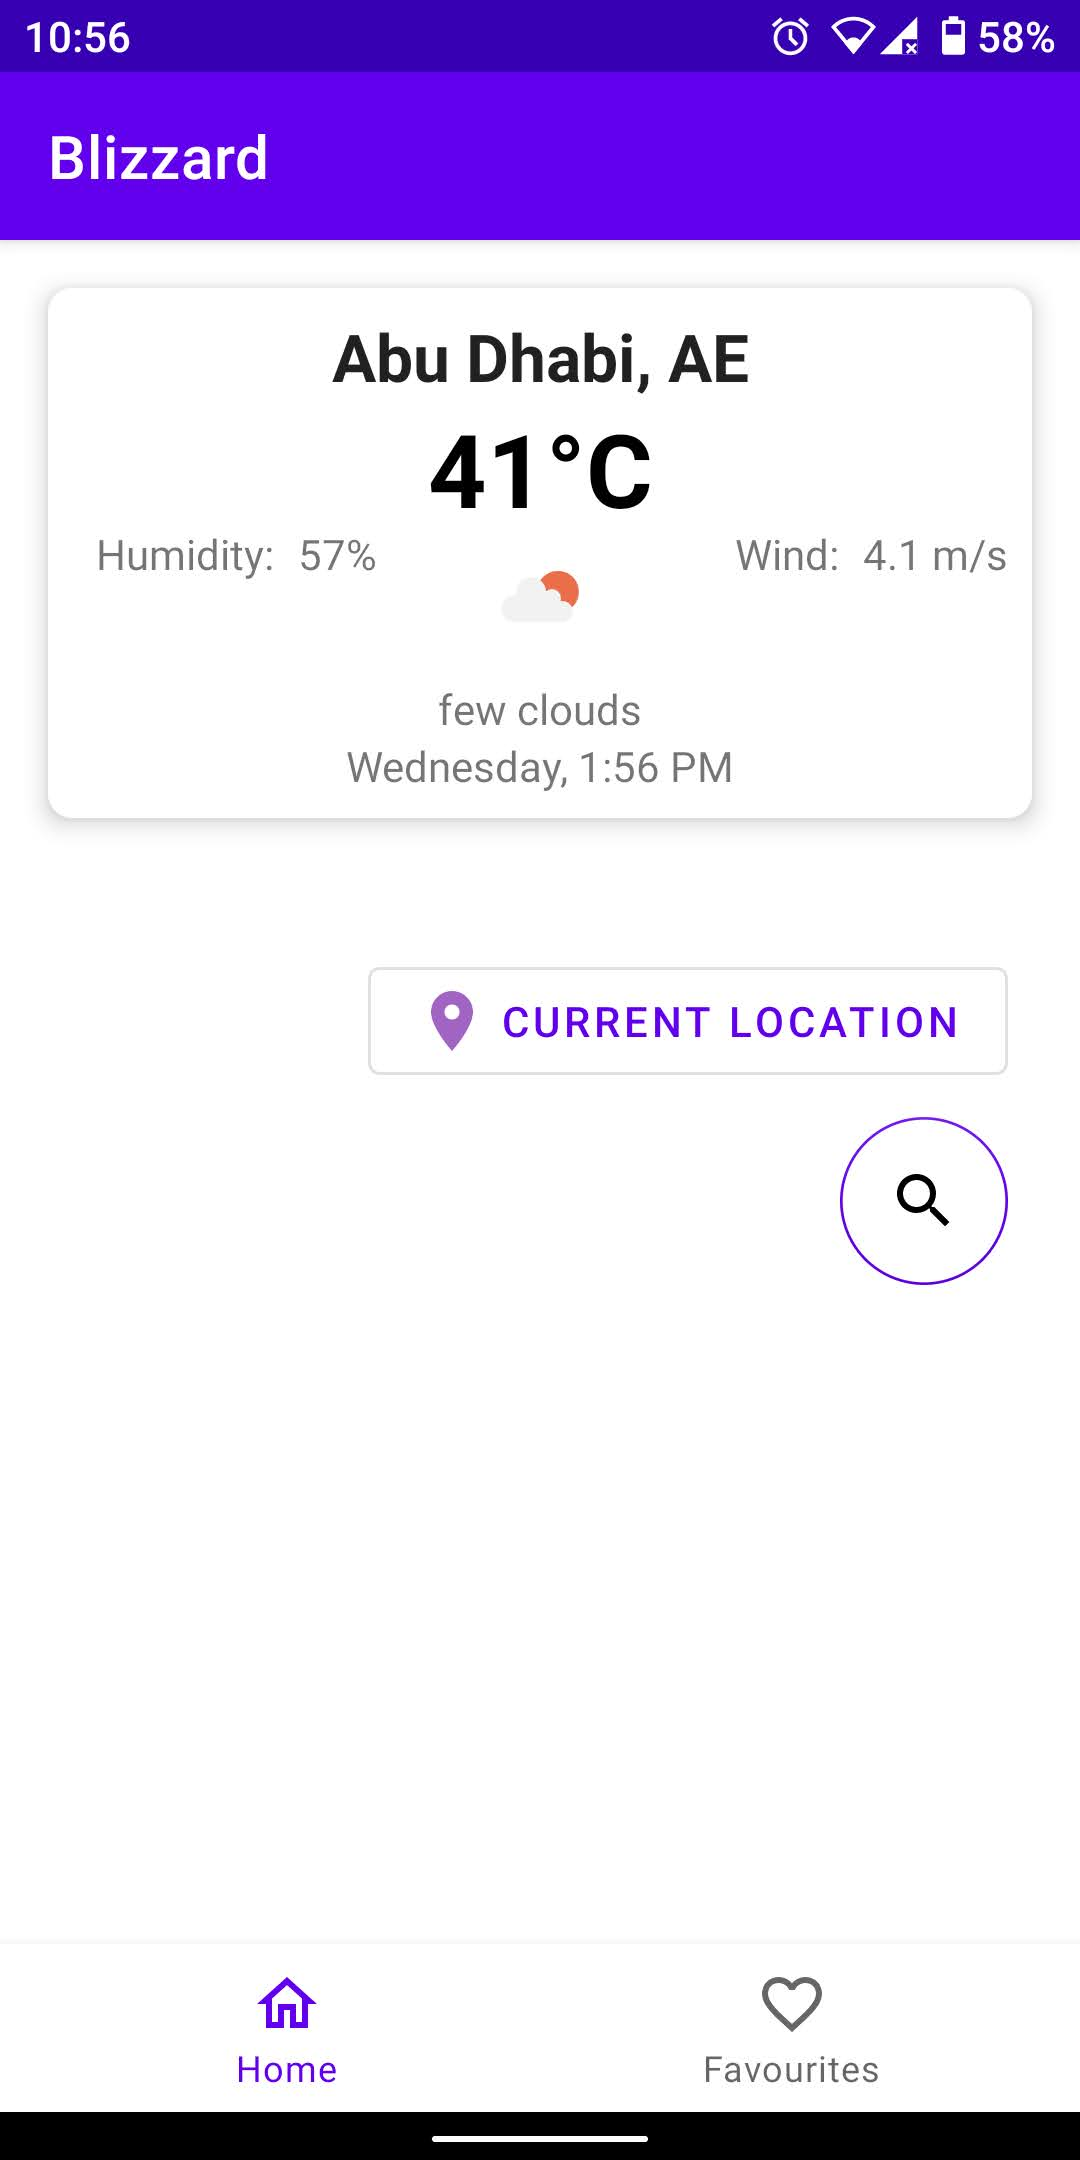
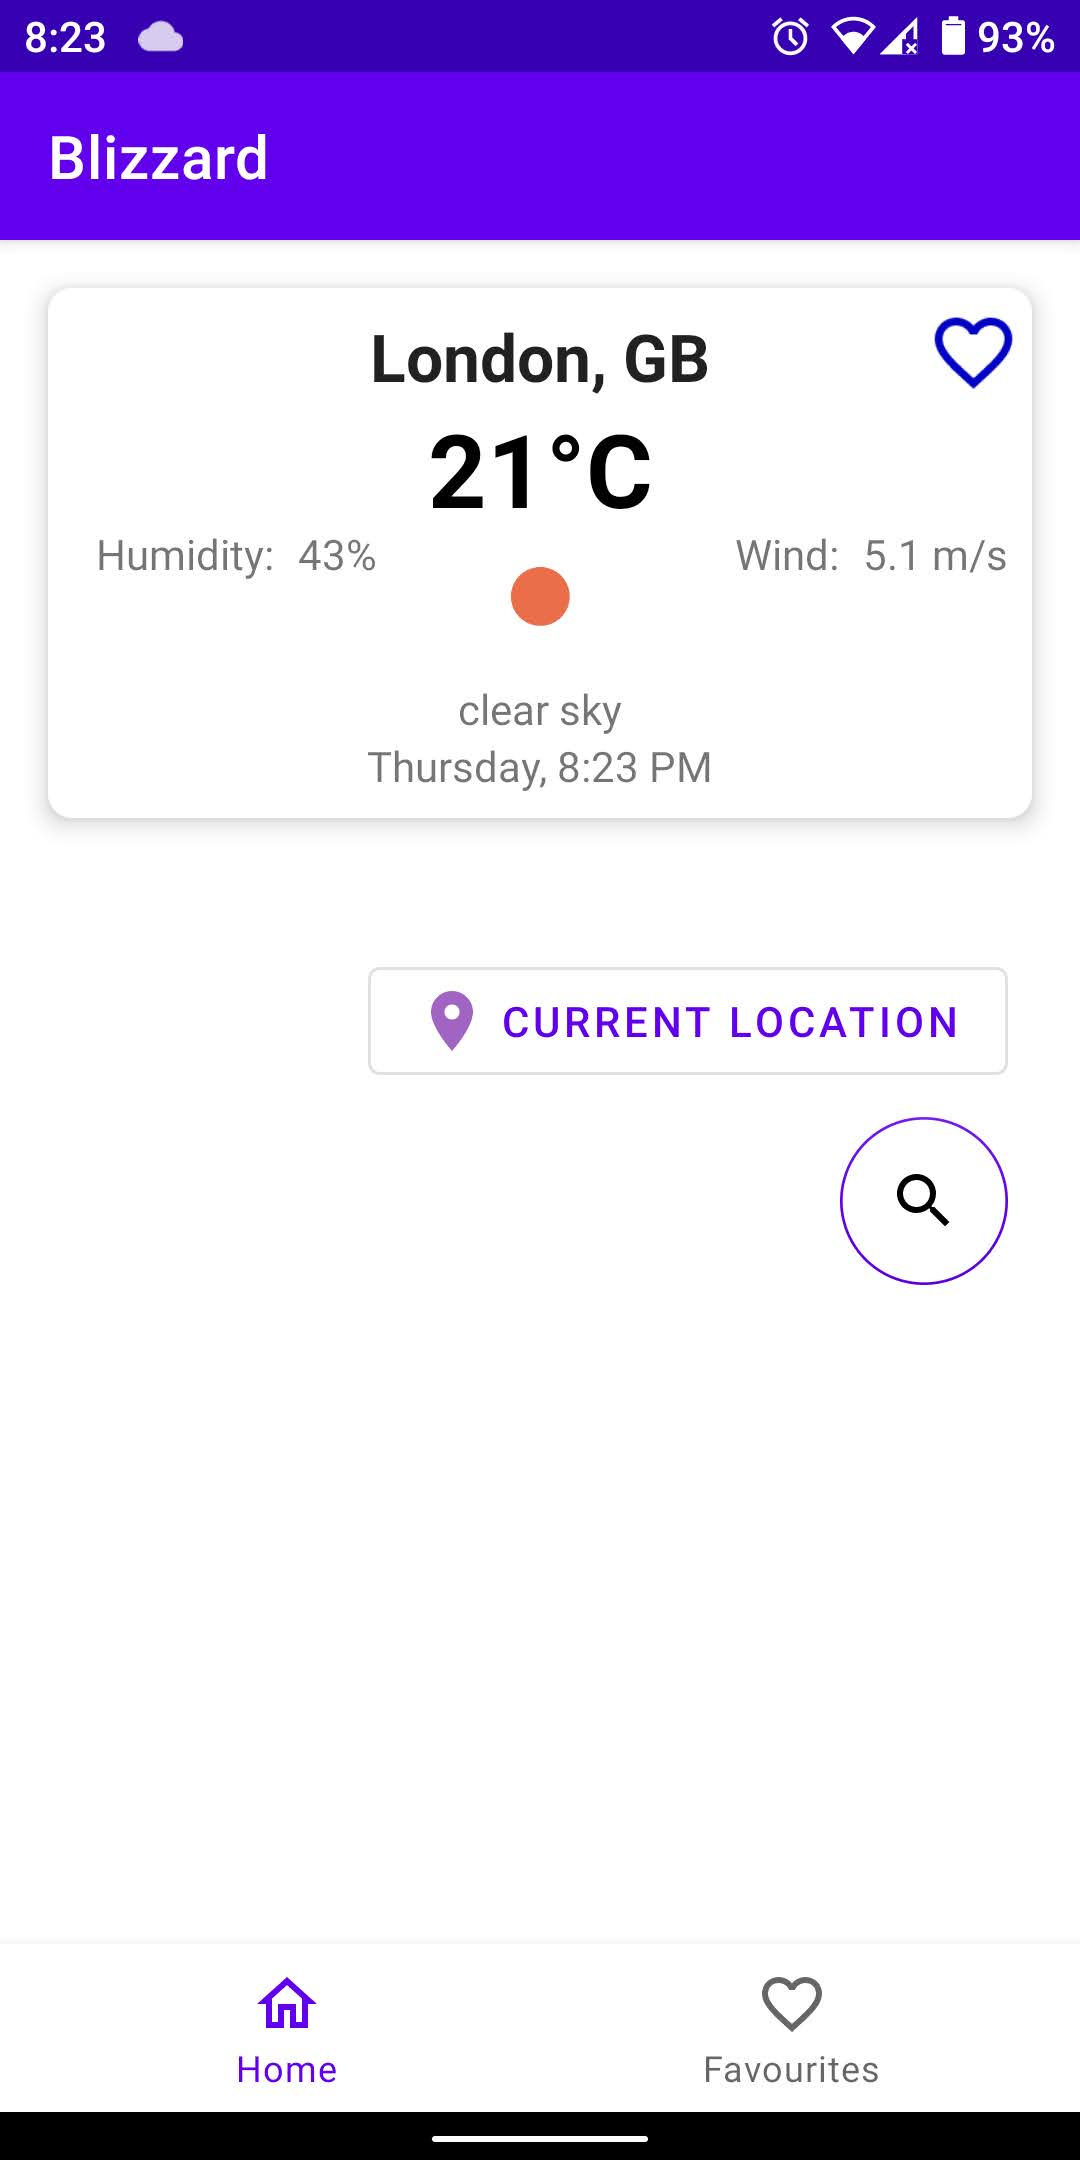
Add favourite button to card view
Added a favourite button, for users to mark particular
cities as favourite and also display those particular
cities in the FavouritesFragment.

diff --git a/app/src/main/java/com/example/blizzard/HomeFragment.java b/app/src/main/java/com/example/blizzard/HomeFragment.java
@@ -98,6 +98,9 @@ public class HomeFragment extends Fragment {
     private TextView tvWindTitle;
     private TextView tvNoInternet;
     private ImageView ivFavourite;
+    Boolean isClicked = false;
+    String cityName;
+
 
 
     @Override
@@ -167,9 +170,9 @@ public class HomeFragment extends Fragment {
             } else if (!mIsNetworkAvailable) {
                 searchBox.setError(getString(R.string.no_internet));
             } else {
-                String cityName = searchBox.getText().toString();
+                String searchText = searchBox.getText().toString();
                 searchByCityName = true;
-                mBlizzardViewModel.getWeather(cityName);
+                mBlizzardViewModel.getWeather(searchText);
                 observeWeatherChanges();
                 animateViews();
             }
@@ -181,6 +184,29 @@ public class HomeFragment extends Fragment {
         });
 
         fabSearch.setOnClickListener(view13 -> reverseViewAnimToInit());
+
+        ivFavourite.setOnClickListener(view14 -> {
+            if (isClicked) {
+                isClicked = false;
+                LoadImage(R.drawable.ic_favorite, ivFavourite);
+                updateIsFavourite(false);
+            } else {
+                isClicked = true;
+                LoadImage(R.drawable.ic_favorite_filed, ivFavourite);
+                updateIsFavourite(true);
+            }
+        });
+    }
+
+    private void updateIsFavourite(boolean b) {
+        if (cityName != null) {
+            Executors.newSingleThreadExecutor()
+                    .execute(() -> {
+                        WeatherDataEntity weatherDataEntity = mBlizzardViewModel.getWeatherByCityName(cityName);
+                        weatherDataEntity.setFavourite(b);
+                        mBlizzardViewModel.updateWeatherData(weatherDataEntity);
+                    });
+        }
     }
 
     private void reverseViewAnimToInit() {
@@ -259,7 +285,7 @@ public class HomeFragment extends Fragment {
         ivFavourite = view.findViewById(R.id.iv_favourite);
     }
 
-    public void makeViewsInvisible(){
+    public void makeViewsInvisible() {
         tvCityTitle.setVisibility(View.INVISIBLE);
         tvCityDescription.setVisibility(View.INVISIBLE);
         tvCityHumidity.setVisibility(View.INVISIBLE);
@@ -408,16 +434,16 @@ public class HomeFragment extends Fragment {
     private void observeWeatherChanges() {
         mBlizzardViewModel.getWeatherLiveData().observe(getViewLifecycleOwner(), weatherData -> {
             if (weatherData != null) {
+                cityName = weatherData.getName();
                 saveToDb(weatherData);
                 mTimeUtil.setTime(weatherData.getDt(), weatherData.getTimezone());
-
                 resolveAppState(weatherData);
             } else {
                 Snackbar.make(view, "Error getting Location", Snackbar.LENGTH_SHORT).show();
                 if (searchByCityName) {
                     Handler handler = new Handler(Looper.getMainLooper());
                     handler.postDelayed(this::reverseViewAnimToInit, 1000L);
-                }else {
+                } else {
                     makeViewsInvisible();
                     ivNoInternet.setVisibility(View.VISIBLE);
                     tvNoInternet.setVisibility(View.VISIBLE);
@@ -427,10 +453,39 @@ public class HomeFragment extends Fragment {
         });
     }
 
+    private void checkIfIsFavourite() {
+        try {
+            WeatherDataEntity entity = mBlizzardViewModel.getWeatherByCityName(cityName);
+            Log.d(TAG, "checkIfIsFavourite: city name is " + cityName);
+            Handler favHandler = new Handler(Looper.getMainLooper());
+            favHandler.post(() -> {
+
+                if (searchByCityName) {
+                    ivFavourite.setVisibility(View.VISIBLE);
+                } else {
+                    ivFavourite.setVisibility(View.INVISIBLE);
+                }
+
+                if (entity.getFavourite()){
+                    isClicked = true;
+                    LoadImage(R.drawable.ic_favorite_filed, ivFavourite);
+                }else {
+                    isClicked = false;
+                    LoadImage(R.drawable.ic_favorite, ivFavourite);
+                }
+
+            });
+        }catch (NullPointerException e){
+            Log.e(TAG, "checkIfIsFavourite: Data not saved yet");
+        }
+
+    }
+
     private void saveToDb(WeatherDataResponse weatherDataResponse) {
         Executors.newSingleThreadExecutor().execute(() -> {
-            WeatherDataEntity entity = WeatherMapper.mapToEntity(weatherDataResponse);
+            WeatherDataEntity entity = new WeatherMapper(mBlizzardViewModel).mapToEntity(weatherDataResponse);
             mBlizzardViewModel.saveWeather(entity);
+            checkIfIsFavourite();
         });
     }
 
@@ -501,5 +556,11 @@ public class HomeFragment extends Fragment {
                 .load(url)
                 .error(R.drawable.ic_cloud)
                 .into(ivWeatherImage);
+    }
+
+    private void LoadImage(int drawable, ImageView imageView) {
+        Glide.with(requireView())
+                .load(drawable)
+                .into(imageView);
     }
 }

diff --git a/app/src/main/java/com/example/blizzard/FavouritesFragment.java b/app/src/main/java/com/example/blizzard/FavouritesFragment.java
@@ -5,6 +5,7 @@ import android.os.Bundle;
 import androidx.annotation.NonNull;
 import androidx.annotation.Nullable;
 import androidx.fragment.app.Fragment;
+import androidx.lifecycle.ViewModelProvider;
 import androidx.recyclerview.widget.LinearLayoutManager;
 import androidx.recyclerview.widget.RecyclerView;
 
@@ -19,6 +20,7 @@ import android.widget.TextView;
 import com.example.blizzard.data.entities.WeatherDataEntity;
 import com.example.blizzard.data.repository.BlizzardRepository;
 import com.example.blizzard.util.FavouriteFragmentAdapter;
+import com.example.blizzard.viewmodel.BlizzardViewModel;
 
 import java.util.ArrayList;
 import java.util.List;
@@ -68,12 +70,22 @@ public class FavouritesFragment extends Fragment {
     }
 
     private void initialiseAdapter() {
-        BlizzardRepository repository = new BlizzardRepository(getContext());
+        BlizzardViewModel viewModel = new ViewModelProvider(requireActivity()).get(BlizzardViewModel.class);
         AtomicReference<List<WeatherDataEntity>> entities = new AtomicReference<>();
         Executors.newSingleThreadExecutor().execute(() -> {
-                    entities.set(repository.getAllDataFromDb());
 
-            makeViewsVisible(entities);
+                    List<WeatherDataEntity> dataEntities = viewModel.getAllDataFromDb();
+                    List<WeatherDataEntity> favWeather = new ArrayList<>();
+
+                    for (WeatherDataEntity dataEntity : dataEntities) {
+                        if (dataEntity.getFavourite()) {
+                            favWeather.add(dataEntity);
+                        }
+                    }
+
+                    entities.set(favWeather);
+
+                    makeViewsVisible(entities);
                 }
         );
 
@@ -88,7 +100,7 @@ public class FavouritesFragment extends Fragment {
                 tvNoData.setVisibility(View.INVISIBLE);
             });
 
-        }else {
+        } else {
             favHandler.postDelayed(() -> {
                 ivNoData.setVisibility(View.VISIBLE);
                 tvNoData.setVisibility(View.VISIBLE);

diff --git a/app/src/main/java/com/example/blizzard/data/database/WeatherMapper.java b/app/src/main/java/com/example/blizzard/data/database/WeatherMapper.java
@@ -2,11 +2,35 @@ package com.example.blizzard.data.database;
 
 /* Created by Rafsanjani on 15/08/2020. */
 
+import android.util.Log;
+
 import com.example.blizzard.data.entities.WeatherDataEntity;
+import com.example.blizzard.data.repository.BlizzardRepository;
 import com.example.blizzard.model.WeatherDataResponse;
+import com.example.blizzard.viewmodel.BlizzardViewModel;
 
 public class WeatherMapper {
-    public static WeatherDataEntity mapToEntity(WeatherDataResponse weatherDataResponse) {
+    BlizzardViewModel viewModel;
+    private static final String TAG = "WeatherMapper";
+
+    public WeatherMapper(BlizzardViewModel viewModel) {
+        this.viewModel = viewModel;
+    }
+
+    public WeatherDataEntity mapToEntity(WeatherDataResponse weatherDataResponse) {
+
+        return checkIfAlreadyExists(weatherDataResponse);
+    }
+
+    private WeatherDataEntity checkIfAlreadyExists(WeatherDataResponse weatherDataResponse) {
+        Boolean exists = false;
+        try {
+            WeatherDataEntity entity = viewModel.getWeatherByCityName(weatherDataResponse.getName());
+            exists = entity.getFavourite();
+        } catch (NullPointerException e) {
+            Log.e(TAG, "checkIfAlreadyExists: Data not saved yet");
+        }
+
         return new WeatherDataEntity(
                 weatherDataResponse.getName(),
                 weatherDataResponse.getSys().getCountry(),
@@ -15,7 +39,8 @@ public class WeatherMapper {
                 weatherDataResponse.getWeather().get(0).getDescription(),
                 weatherDataResponse.getWind().getSpeed(),
                 weatherDataResponse.getDt(),
-                weatherDataResponse.getTimezone()
+                weatherDataResponse.getTimezone(),
+                exists
         );
     }
 

diff --git a/app/src/main/java/com/example/blizzard/data/entities/WeatherDataEntity.java b/app/src/main/java/com/example/blizzard/data/entities/WeatherDataEntity.java
@@ -19,9 +19,10 @@ public class WeatherDataEntity {
     private String country;
     private int dt;
     private int timeZone;
+    private Boolean isFavourite;
 
 
-    public WeatherDataEntity(@NotNull String cityName, String country, double temperature, int humidity, String description, double windSpeed, int dt, int timeZone) {
+    public WeatherDataEntity(@NotNull String cityName, String country, double temperature, int humidity, String description, double windSpeed, int dt, int timeZone, Boolean isFavourite) {
         this.cityName = cityName;
         this.country = country;
         this.description = description;
@@ -30,6 +31,7 @@ public class WeatherDataEntity {
         this.windSpeed = windSpeed;
         this.dt = dt;
         this.timeZone = timeZone;
+        this.isFavourite = isFavourite;
     }
 
     @NotNull
@@ -79,6 +81,14 @@ public class WeatherDataEntity {
 
     public void setWindSpeed(double windSpeed) {
         this.windSpeed = windSpeed;
+    }
+
+    public Boolean getFavourite() {
+        return isFavourite;
+    }
+
+    public void setFavourite(Boolean favourite) {
+        isFavourite = favourite;
     }
 
     public int getDt() {

diff --git a/app/src/main/java/com/example/blizzard/viewmodel/BlizzardViewModel.java b/app/src/main/java/com/example/blizzard/viewmodel/BlizzardViewModel.java
@@ -36,7 +36,15 @@ public class BlizzardViewModel extends AndroidViewModel {
         mWeatherLiveData = mBlizzardRepository.getWeather(cityName);
     }
 
-    List<WeatherDataEntity> getAllDataFromDb() {
+    public WeatherDataEntity getWeatherByCityName(String cityName){
+        return mBlizzardRepository.getWeatherByCityName(cityName);
+    }
+
+    public void updateWeatherData(WeatherDataEntity entity){
+        mBlizzardRepository.updateWeather(entity);
+    }
+
+    public List<WeatherDataEntity> getAllDataFromDb() {
         return mBlizzardRepository.getAllDataFromDb();
     }
 

diff --git a/app/src/main/java/com/example/blizzard/data/repository/BlizzardRepository.java b/app/src/main/java/com/example/blizzard/data/repository/BlizzardRepository.java
@@ -36,6 +36,14 @@ public class BlizzardRepository {
         mWeatherDatabase.weatherDao().saveWeather(weatherDataEntity);
     }
 
+    public WeatherDataEntity getWeatherByCityName(String cityName){
+        return  mWeatherDatabase.weatherDao().getWeatherForCity(cityName);
+    }
+
+    public void updateWeather(WeatherDataEntity entity){
+        mWeatherDatabase.weatherDao().updateWeatherData(entity);
+    }
+
     private static final String TAG = "BlizzardRepository";
 
     public MutableLiveData<WeatherDataResponse> getWeather(String cityName) {

diff --git a/app/src/main/java/com/example/blizzard/data/database/WeatherDao.java b/app/src/main/java/com/example/blizzard/data/database/WeatherDao.java
@@ -22,7 +22,10 @@ public interface WeatherDao {
 
 
     @Query("SELECT cityName FROM weather WHERE cityName = :cityName")
-    LiveData<String> getWeatherForCity(String cityName);
+    LiveData<String> getWeatherLiveDataForCity(String cityName);
+
+    @Query("SELECT * FROM weather WHERE cityName = :cityName")
+    WeatherDataEntity getWeatherForCity(String cityName);
 
     @Update
     void updateWeatherData(WeatherDataEntity weatherDataEntity);
